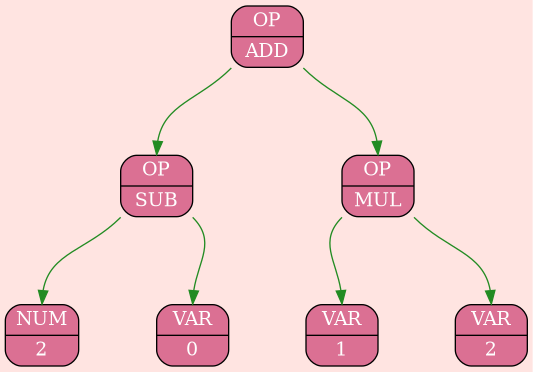
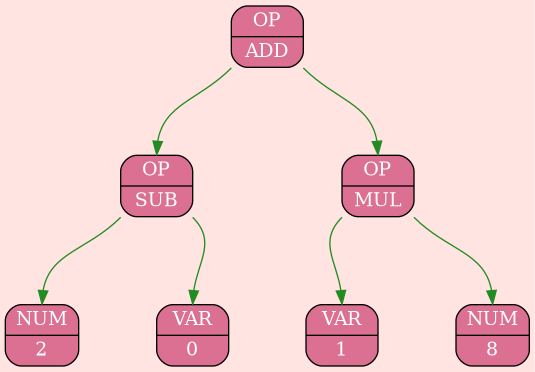
calculating func added

diff --git a/src/Diff.cpp b/src/Diff.cpp
@@ -1,1 +1,55 @@
 #include "Tree.h"
+#include "Diff.h"
+
+TreeElem_t Calc(Tree_t *Tree, TreeNode_t *Curr)
+{
+    switch(Curr->type)
+    {
+        case OP:
+        {
+            switch((Operator_t)Curr->data)
+            {
+                case ADD:
+                    return Calc(Tree, Curr->left) + Calc(Tree, Curr->right);
+                    
+                case SUB:
+                    return Calc(Tree, Curr->left) - Calc(Tree, Curr->right);
+
+                case MUL:
+                    return Calc(Tree, Curr->left) * Calc(Tree, Curr->right);
+
+                case DIV:
+                {
+                    TreeElem_t op2 = Calc(Tree, Curr->right);
+                    if (DblCmp(op2, 0) == 0)
+                        break;
+
+                    return Calc(Tree, Curr->left) / op2;
+                }
+                
+                default:
+                    ;
+            }
+        }
+        break;
+
+        case NUM:
+            return Curr->data;
+        
+        case VAR:
+            return Tree->VarList[(int)Curr->data];
+
+        default:
+            return ERROR_VAL;
+    }
+}
+
+int DblCmp(TreeElem_t a, TreeElem_t b)
+{
+    const double EPSILON = 1e-10;
+
+    if (fabs(a - b) < EPSILON)
+        return 0;
+
+    return a - b;
+}

diff --git a/src/Tree.cpp b/src/Tree.cpp
@@ -1,10 +1,5 @@
 #include "Tree.h"
 
-static TreeElem_t VarList[MAX_VARS] = {
-    0,
-    5
-};
-
 TreeErr_t PreOrderCtor(Tree_t *Tree, const char *file_name)
 {
     char *buf = NULL;
@@ -46,9 +41,19 @@ TreeNode_t *_ADD(TreeNode_t *left, TreeNode_t *right)
     return NewNode(OP, ADD, left, right); 
 }
 
+TreeNode_t *_SUB(TreeNode_t *left, TreeNode_t *right)
+{
+    return NewNode(OP, SUB, left, right);
+}
+
 TreeNode_t *_MUL(TreeNode_t *left, TreeNode_t *right) 
 { 
     return NewNode(OP, MUL, left, right); 
+}
+
+TreeNode_t *_DIV(TreeNode_t *left, TreeNode_t *right)
+{
+    return NewNode(OP, DIV, left, right);
 }
 
 TreeNode_t *FindNode(TreeNode_t *Curr, const char *data)

diff --git a/src/main.cpp b/src/main.cpp
@@ -1,9 +1,13 @@
 #include "Tree.h"
+#include "Diff.h"
 
 int main(void)
 {
     Tree_t Tree = {};
     LogCtx_t LogCtx = {};
+
+    Tree.VarList[0] = 1;
+    Tree.VarList[1] = 6;
 
     TreeLogInit(&LogCtx);
 

diff --git a/include/Diff.h b/include/Diff.h
@@ -1,0 +1,8 @@
+#include <math.h>
+#include "Tree.h"
+
+const double ERROR_VAL = 0xFFFFFFFF;
+
+TreeElem_t Calc(Tree_t *Tree, TreeNode_t *Curr);
+int DblCmp(TreeElem_t a, TreeElem_t b);
+

diff --git a/include/Tree.h b/include/Tree.h
@@ -41,6 +41,7 @@ struct TreeNode_t {
 
 struct Tree_t {
     TreeNode_t *root;
+    TreeElem_t VarList[MAX_VARS];
 };
 
 enum TreeErr_t {
